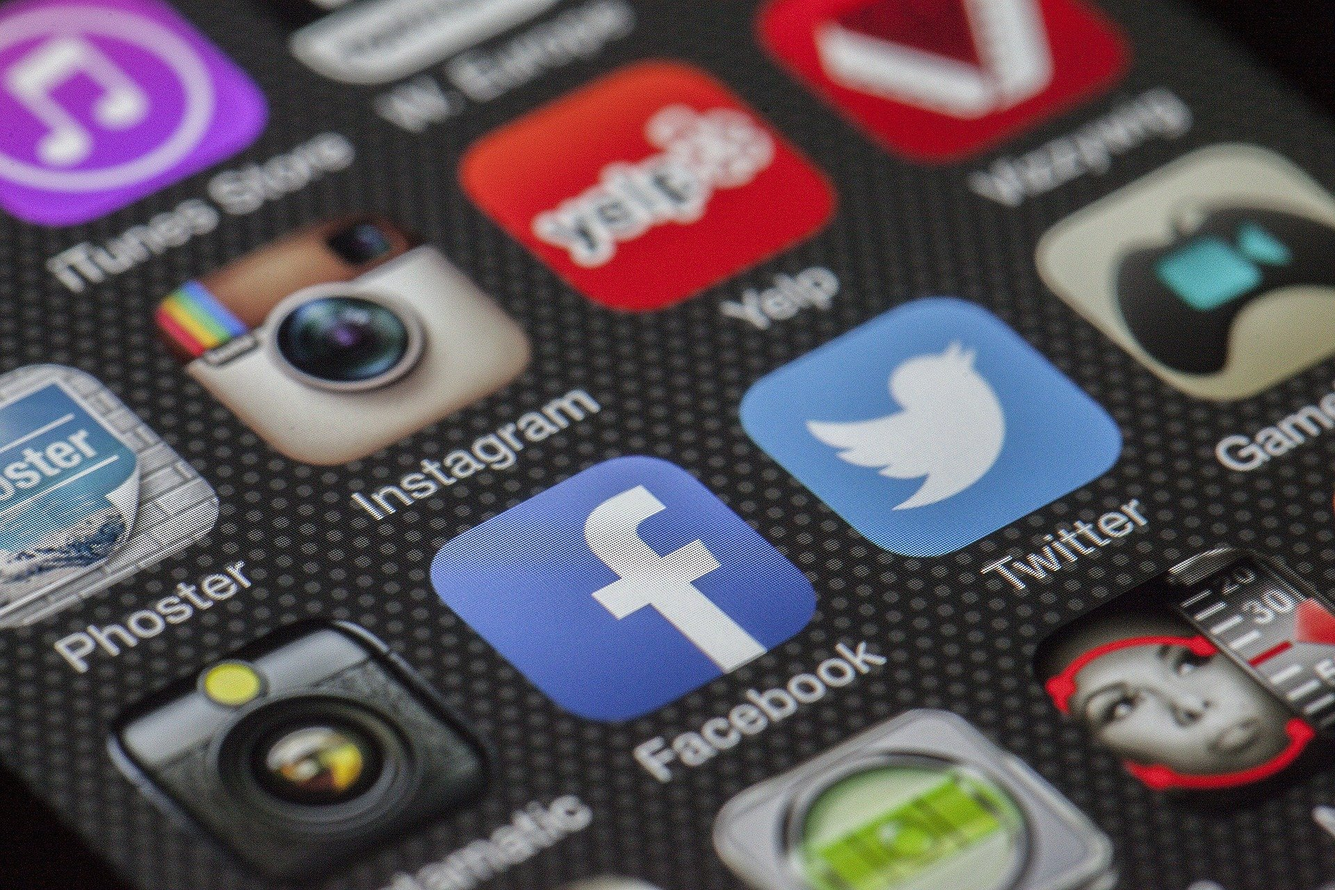
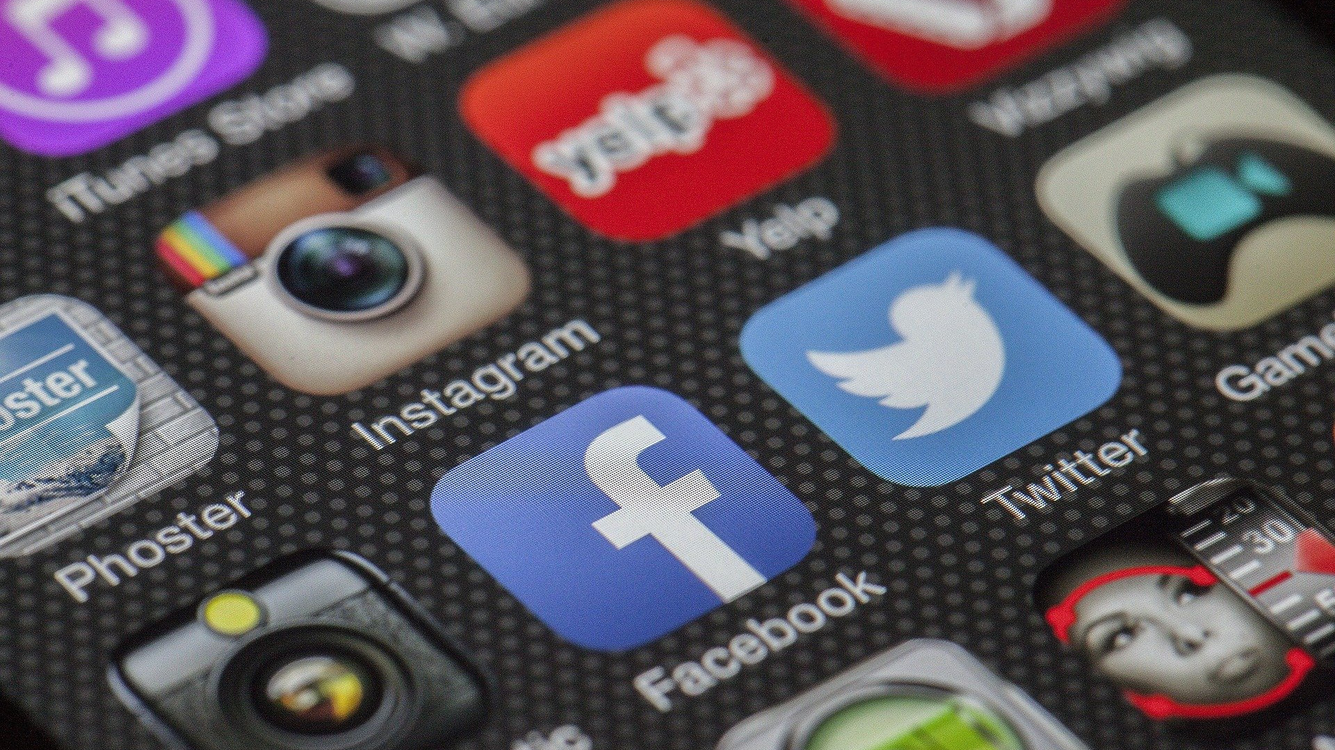
header image update

diff --git a/components/layout.js b/components/layout.js
@@ -15,9 +15,9 @@ export default class Layout extends React.Component {
               </Head>
               <header>
                 <Navbar></Navbar>
-                <Image className="absolute top-0 left-0 z-0" layout="fill" src="/header-image.jpg" alt="phone-background" />
+                <img className="absolute top-0 left-0 z-0" src="/header-image.jpg" alt="phone-background" />
               </header>
-              <main className=" mt-60 sm:mt-96 relative z-10 max-w-4xl mx-auto">{ this.props.children }</main>
+              <main className="mt-32 sm:mt-96 relative z-10 max-w-4xl mx-auto">{ this.props.children }</main>
               <footer className="px-4 sm:px-20 bg-gray-100 flex py-12 items-center justify-between">
                 <HomeLink></HomeLink>
                 <Link href="/imprint">
